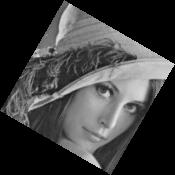
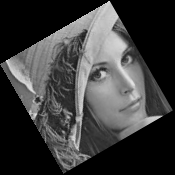
100% over

diff --git a/NTU/DIP.py b/NTU/DIP.py
@@ -1,7 +1,65 @@
 # -*- coding: utf-8 -*-
+import cv2
+import numpy as np
+
+
 def BiCubic(img,y,x):
+    width  = img.shape[1]-1
+    height = img.shape[0]-1
+    x0 = int(x)
+    y0 = int(y)
+    alpha = x - x0
+    beta  = y - y0
     
-    return
+    mm = np.zeros((4, 4))  
+    
+    Yindex = 0
+    Yend   = 4
+    Xindex = 0
+    Xend   = 4    
+    
+    if y0 == 0 and x0 == 0:
+        Xindex = 1
+        Yindex = 1
+    elif y0 == 0:
+        Yindex = 1
+    elif x0 == 0:
+        Xindex = 1
+        
+    if y0 == height and x0 == width:
+        Xend = 1
+        Yend = 1
+    elif y0 == height-1 and x0 == width-1:
+        Xend = 2
+        Yend = 2
+    if y0 == height:
+        Yend = 1
+    elif y0 == height-1:
+        Yend = 2
+    if x0 == width:
+        Xend = 1
+    elif x0 == width-1:
+        Xend = 2
+    
+    
+    for i in range(Yindex, Yend):
+        for j in range(Xindex, Xend):
+            mm[i][j] = 1
+            
+            
+    for i in range(4):
+        for j in range(4):
+            if mm[i][j] == 1:
+                mm[i][j] = img[y0-1+i][x0-1+j]
+                
+    y0 = Cubic(mm[0][0],mm[0][1],mm[0][2],mm[0][3],alpha)
+    y1 = Cubic(mm[1][0],mm[1][1],mm[1][2],mm[1][3],alpha)
+    y2 = Cubic(mm[2][0],mm[2][1],mm[2][2],mm[2][3],alpha)
+    y3 = Cubic(mm[3][0],mm[3][1],mm[3][2],mm[3][3],alpha)
+    
+    ans = Cubic(y0,y1,y2,y3,beta)
+        
+    return ans
 
 def Cubic(p0,p1,p2,p3,x):
     ff1 = (p3-p1)/2
@@ -43,8 +101,6 @@ def blinear (img, ii, jj):
     beta  = ii - top_i      
     rows = img.shape[0]-1
     cols = img.shape[1]-1
-    
-      
         
     if   top_i < rows and left_j < cols :    
 #        if top_i == 0 and left_j == 0:
@@ -75,16 +131,11 @@ def blinear (img, ii, jj):
         a = (top_i   ,left_j  )
         b = a
         c = (top_i+1 ,left_j  )
-        d = c           
-        
+        d = c     
      
     weight = (1-alpha) * (1-beta) * img[a[0]][a[1]] + \
              (alpha)   * (1-beta) * img[b[0]][b[1]] + \
              (1-alpha) * (beta)   * img[c[0]][c[1]] + \
              (alpha)   * (beta)   * img[d[0]][d[1]]
-    
-    
-
-                 
                    
     return weight

diff --git a/dipHw1.py b/dipHw1.py
@@ -52,7 +52,7 @@ print `height`, `width`
 RotateImg = np.zeros((height, width))
 x0 = int(width/2+0.5)
 y0 = int(height/2+0.5)
-RotMatrix = np.array([[np.cos(theta), np.sin(theta)], [-1*np.sin(theta), np.cos(theta)]])
+RotMatrix = np.array([[np.cos(theta), -1*np.sin(theta)], [np.sin(theta), np.cos(theta)]])
 inv_RotMatrix = np.linalg.inv(RotMatrix)
 #print inv_rotMatrix
 
@@ -64,14 +64,8 @@ for y in range(height):
         orgPoint[1] += float(imgRow/2)
         if ((orgPoint[0] >= 0) and (orgPoint[0] < imgColumn)) and ((orgPoint[1] >= 0) and (orgPoint[1] < imgRow)):   
             RotateImg[y][x] = dip.BiCubic(img ,orgPoint[1],orgPoint[0])
-        
-        
-        
-        
-
-#cv2.imwrite("cv2.png", rotateImage(img,30))    
-    
-
+            
+            
 
 
 cv2.imwrite("biCubic.png", RotateImg);
